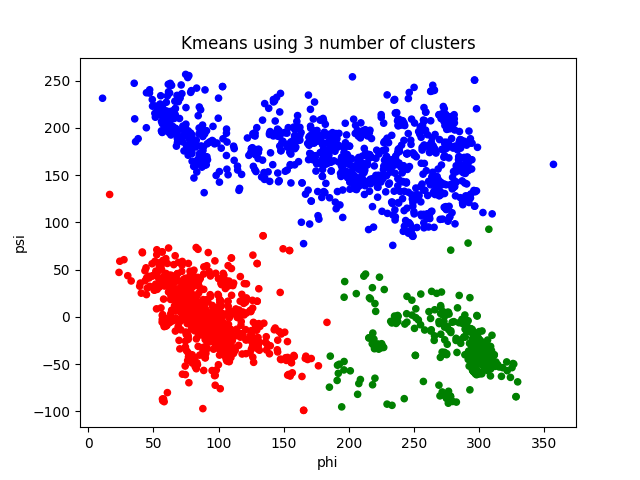
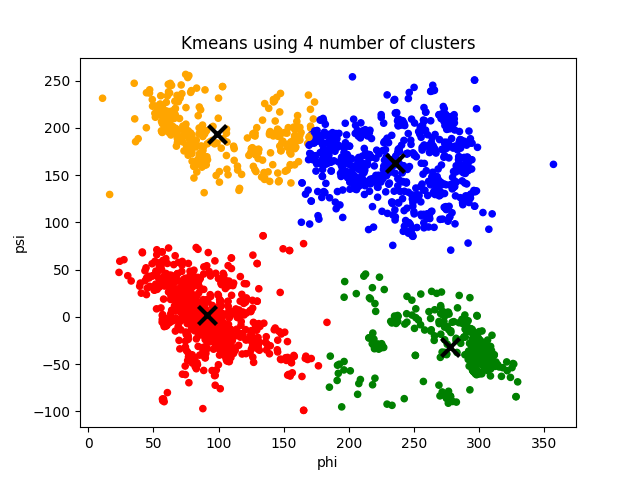
add highlight to report

diff --git a/assignment3/src/kmeans/kmeans.py b/assignment3/src/kmeans/kmeans.py
@@ -10,7 +10,7 @@ from numpy.random import default_rng
 
 
 # SELECT NR OF CLUSTERS
-n_clusters = 3
+n_clusters = 4
 
 # Setup constants
 colors = ["red", "blue", "green", "orange",
@@ -18,7 +18,7 @@ colors = ["red", "blue", "green", "orange",
 PATH = '../../res/data_all.csv'
 PHI = "phi"
 PSI = "psi"
-RESIDUE_NAME = ''
+RESIDUE_NAME = 'GLY'
 df = pd.read_csv(PATH)
 
 
@@ -26,8 +26,8 @@ if RESIDUE_NAME:
     df = df.loc[df['residue name'] == RESIDUE_NAME]
 
 # Get data to scatterplot
-#df[PHI] = df[PHI].apply(lambda phi: phi + 360 if phi < 0 else phi)
-#df[PSI] = df[PSI].apply(lambda psi: psi + 360 if psi < -100 else psi)
+df[PHI] = df[PHI].apply(lambda phi: phi + 360 if phi < 0 else phi)
+df[PSI] = df[PSI].apply(lambda psi: psi + 360 if psi < -100 else psi)
 
 
 X = df[[PHI, PSI]]
@@ -67,8 +67,8 @@ plt.scatter(centroids[:, 0], centroids[:, 1],
             marker='x', s=169, linewidths=3,
             color='k', zorder=10)
 
-plt.hlines(-110, -180,180)
-plt.vlines(0, -180,180)
+#plt.hlines(-110, -180,180)
+#plt.vlines(0, -180,180)
 
 
 

diff --git a/assignment3/src/scatterplot_highlight.py b/assignment3/src/scatterplot_highlight.py
@@ -1,0 +1,26 @@
+# Author: {Tobias Lindroth & Robert Zetterlund}
+import pandas as pd
+import matplotlib.pyplot as plt
+import seaborn as sns; sns.set_theme()
+import numpy as np
+
+
+# Setup constants
+PATH = '../res/data_all.csv'
+PHI = "phi"
+PSI = "psi"
+
+RESIDUE_NAME = "PRO"
+df = pd.read_csv(PATH)
+
+df[PHI] = df[PHI].apply(lambda phi: phi + 360 if phi < 0 else phi)
+df[PSI] = df[PSI].apply(lambda psi: psi + 360 if psi < -100 else psi)
+
+
+df_residue = df.loc[df['residue name'] == RESIDUE_NAME]
+df_rest = df.loc[df['residue name'] != RESIDUE_NAME]
+
+ax = df_rest.plot.scatter(x=PHI, y=PSI, c="grey", alpha=0.2, label="dataset")
+df_residue.plot.scatter(x=PHI, y=PSI, c="green", ax=ax, alpha=0.5, label=RESIDUE_NAME )
+
+plt.show()

diff --git a/assignment3/src/dbscan/dbscan.py b/assignment3/src/dbscan/dbscan.py
@@ -21,8 +21,8 @@ PSI = "psi"
 RESIDUE_NAME = "GLY"
 df = pd.read_csv(PATH)
 
-eps = 29.5
-min_samples=25
+eps = 17.5
+min_samples=30
 
 if RESIDUE_NAME:
     df = df.loc[df['residue name'] == RESIDUE_NAME]

diff --git a/assignment3/report.md b/assignment3/report.md
@@ -332,19 +332,24 @@ The fact that DBSCAN is so sensitive to the minimum number of samples in the nei
 
 In order to compare the clusters, we find suitable k using elbow curve and find that PRO has a `k = 3`.
 
-A cluster ...
-
 <p align="center">
     <img src="fig/q4/elbow-PRO.png" width="45%"> 
     <img src="fig/q4/kmeans-PRO.png" width="45%"> 
 <p>
 <!-- align="center">Elbow curve for residue type PRO, we find the largest inertia on k = 3, altough 6 is a value of interest -->
 
-Looks better, since they are condensed within phi 250-350.
+The cluster for residue type PRO looks better than the general datapoints. They are condensed within phi 250-350 and very little noise is noted. We find that by using DBSCAN with reasonable chosen values of `epsilon` and `min_samples` provides one or two clusters. 
 
 <p align="center">
-    <img src="fig/q4/dbscan-PRO.png" width="70%">  
+    <img src="fig/q4/dbscan-PRO-1.png" width="45%">    
+    <img src="fig/q4/dbscan-PRO.png" width="45%">
 <p>
+
+<p align="center">
+    <img src="fig/q4/highlight-PRO.png" width="70%">
+    <p align="center">Figure: <p>
+<p>
+
 
 ### GLY
 
@@ -355,8 +360,17 @@ In order to compare the clusters, we find suitable k using elbow curve and find 
     <img src="fig/q4/kmeans-GLY.png" width="45%"> 
 <p>
 
-bla bla bla, seems like noise.. we can find clusters but it might be coincidence.
+We find that by using DBSCAN with reasonable chosen values of `epsilon` and `min_samples` provides three or four clusters. 
 
 <p align="center">
-    <img src="fig/q4/dbscan-GLY.png" width="70%">  
+    <img src="fig/q4/dbscan-GLY.png" width="45%">  
+    <img src="fig/q4/dbscan-GLY-4.png" width="45%">  
+<p>
+
+In this case, we would argue that dbscan more accurately finds 3 clusters than kmeans did. The GLY dataset is very similar to the entire dataset as visualised in the figure below.
+
+
+<p align="center">
+    <img src="fig/q4/highlight-GLY.png" width="70%">
+    <p align="center">Figure: <p>
 <p>
